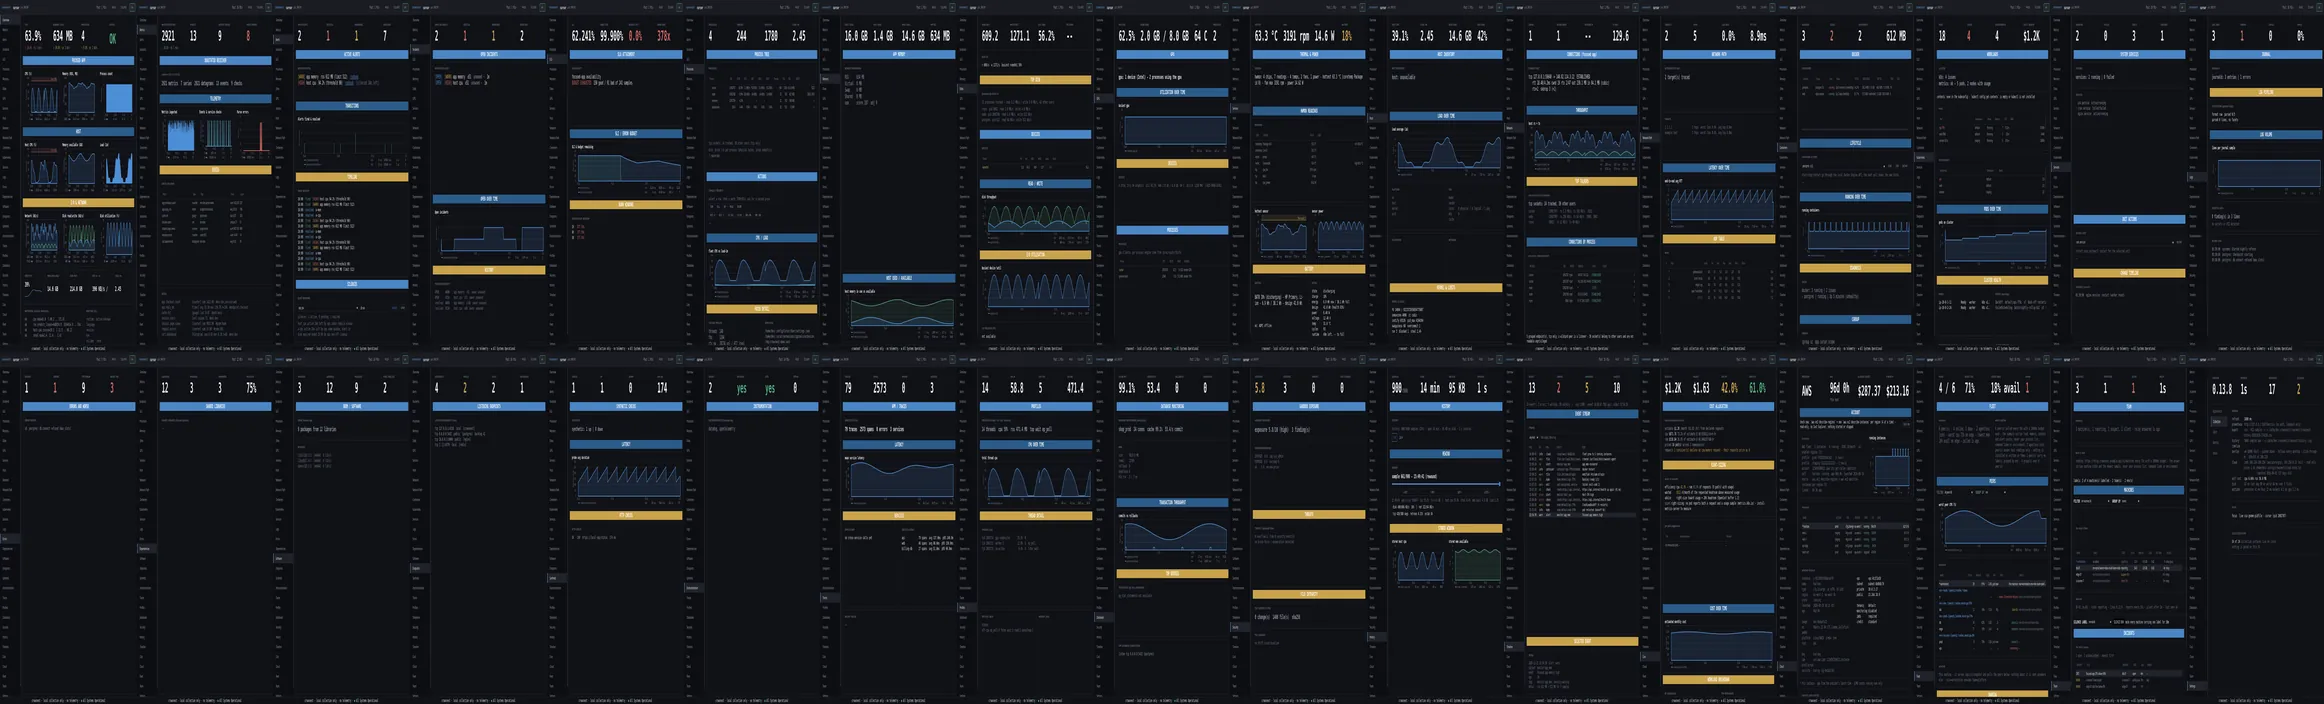
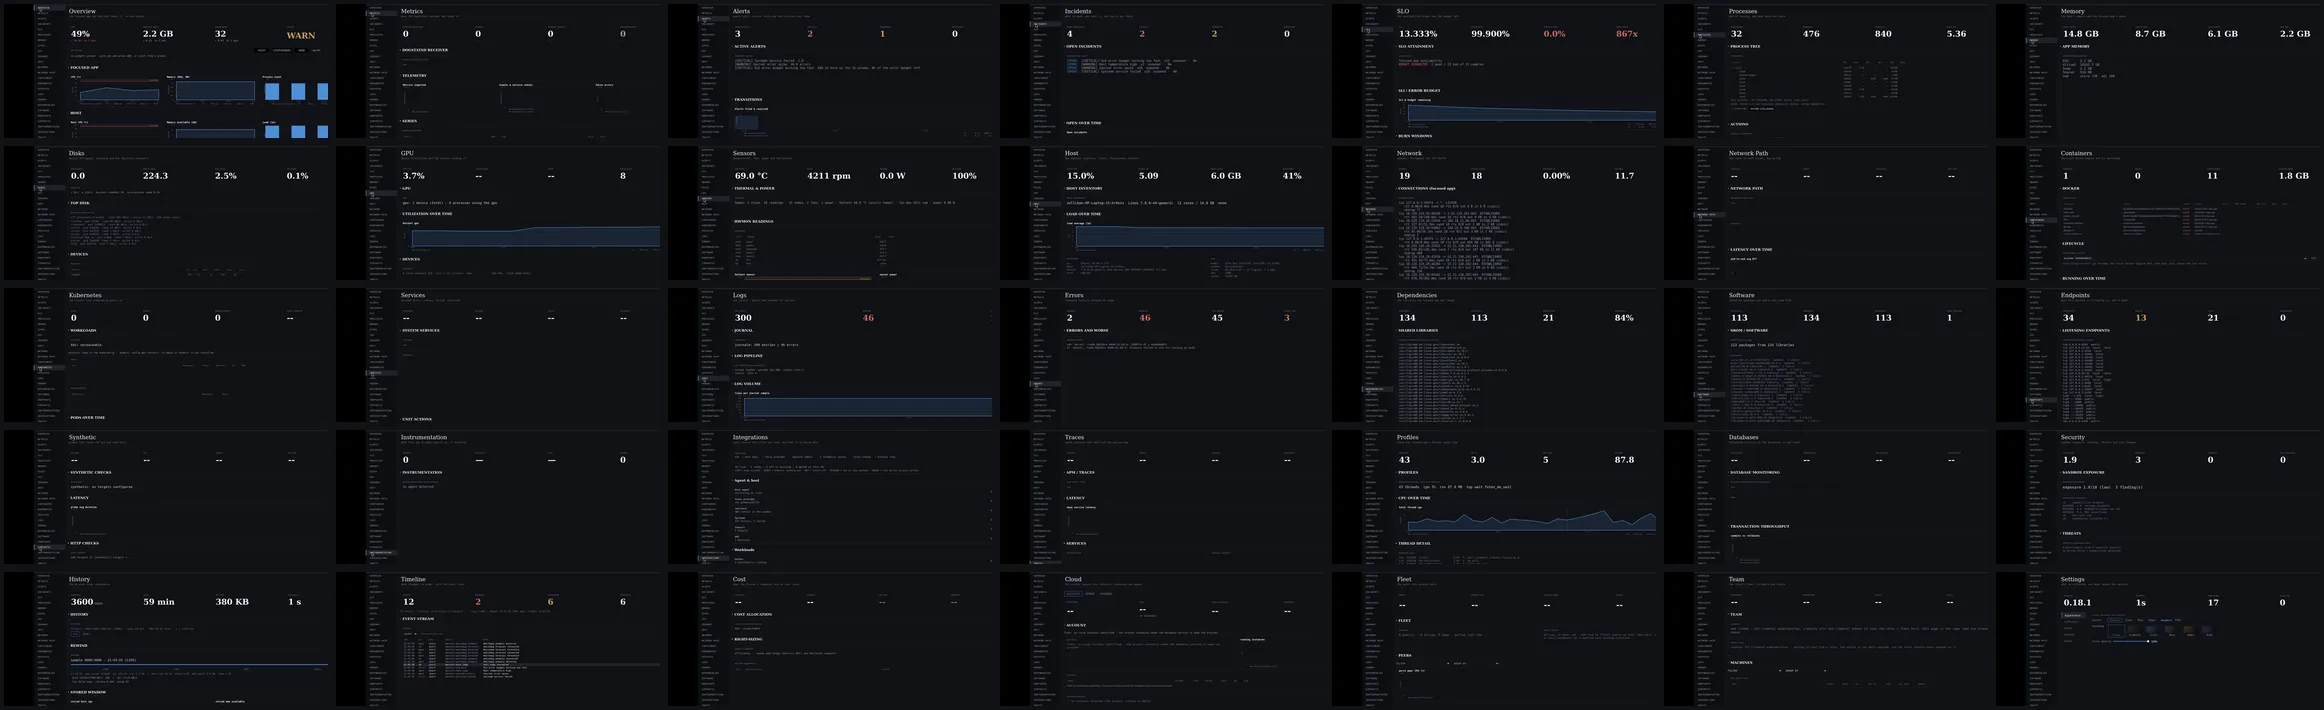
site: the 35-view console sheet on 0.18.1, with the strip at 0.18.1
All 35 pages captured live from the 0.18.1 console (rail rows measured by pixel
bands at 27 px, so every tile is the page it names). Overview shows MY BOARD,
Processes seven columns, Cloud the three tabs, and Settings the running
version. The strip moves from 0.14.4 to 0.18.1; the old 34-tile sheet is gone.

diff --git a/site/index.html b/site/index.html
@@ -17,7 +17,7 @@
 
     <div class="topstrip">
       <div class="wrap topstrip-inner">
-        <span class="topstrip-build"><i class="dot" aria-hidden="true"></i> CROWSNEST 0.14.4</span>
+        <span class="topstrip-build"><i class="dot" aria-hidden="true"></i> CROWSNEST 0.18.1</span>
         <span>LOCAL-FIRST SYSTEM MONITOR</span>
         <span>LINUX / MACOS / WINDOWS</span>
         <span>MIT</span>

diff --git a/site/relay.html b/site/relay.html
@@ -17,7 +17,7 @@
 
     <div class="topstrip">
       <div class="wrap topstrip-inner">
-        <span class="topstrip-build"><i class="dot" aria-hidden="true"></i> CROWSNEST 0.14.4</span>
+        <span class="topstrip-build"><i class="dot" aria-hidden="true"></i> CROWSNEST 0.18.1</span>
         <span>RELAY / FIELD MANUAL</span>
         <span>LINUX / MACOS / WINDOWS</span>
         <span>MIT</span>

diff --git a/site/DEPLOY.md b/site/DEPLOY.md
@@ -14,7 +14,7 @@ python3 site/check_links.py          # expects: 2 page(s), 0 broken
 Open `site/index.html` and `site/relay.html` at 1440 and 390 widths and check
 there is no horizontal scroll. The page is dark-only by design.
 
-Check the version strip says the release being shipped (`CROWSNEST 0.14.4` at
+Check the version strip says the release being shipped (`CROWSNEST 0.18.1` at
 the time of writing), the hero plays the live strip capture (`shots/hud-live.webm` / `.mp4`,
 poster `hud.png`, which shows PIN, CONSOLE, CLICK-THRU and HIDE), the console
 plate plays `shots/console-live.webm` / `.mp4`, and `shots/views.webp` is the
@@ -36,7 +36,7 @@ and Cloudflare Pages is a manual step.
 
 ## After uploading
 
-- Open the live URL and hard-reload; confirm the top strip says `0.14.4`.
+- Open the live URL and hard-reload; confirm the top strip says `0.18.1`.
 - Click **Releases**, **Relay**, the install tabs and the copy buttons; confirm
   `releases/latest/download/install.sh` and `SHA256SUMS` resolve.
 - Confirm the hero video plays (the strip updates about once a second) and the
